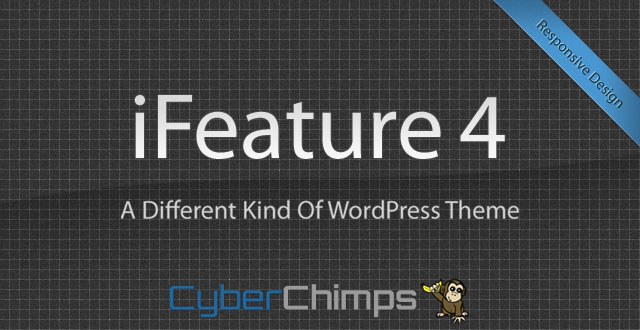
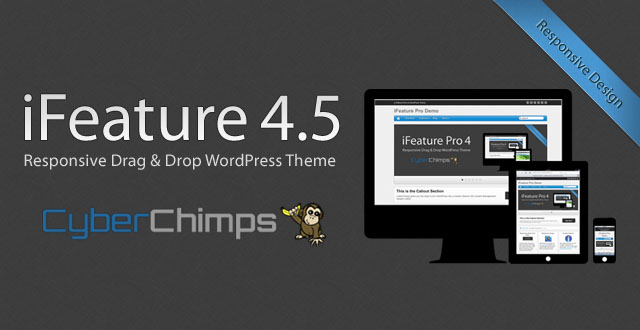
first 4.5 push, product element, slider image

Changed region(s): [[0.0312, 0.2424, 0.9688, 0.8182], [0.25, 0.8485, 0.75, 1.0]]

diff --git a/library/js/theme-options-custom.js b/library/js/theme-options-custom.js
@@ -40,6 +40,29 @@ jQuery(document).ready(function($) {
       post.show(); custom.hide();
     }
   }).change();
+   $("#if_blog_product_link_toggle").change(function() {
+    var toShow = $("#section-if_blog_product_link_url, #section-if_blog_product_link_text");
+    if($(this).is(':checked')) {
+      toShow.show();
+    } else {
+      toShow.hide();
+    }
+  }).change();
+   $("#section-if_blog_product_type").change(function() {
+    if($(this).find(":selected").val() == 'key1') {
+      $('#section-if_blog_product_image').fadeIn();
+    } else {
+      $('#section-if_blog_product_image').hide();
+    }
+  }).change();
+     $("#section-if_blog_product_type").change(function() {
+    if($(this).find(":selected").val() == 'key2') {
+      $('#section-if_blog_product_video').fadeIn();
+    } else {
+      $('#section-if_blog_product_video').hide();
+    }
+  }).change();
+
 
   $.each(['twitter', 'facebook', 'gplus', 'flickr', 'linkedin', 'pinterest', 'youtube', 'googlemaps', 'email', 'rsslink'], function(i, val) {
 	  $("#section-if_" + val).each(function(){
@@ -106,8 +129,8 @@ jQuery(function($) {
 		var show = $(this).val().split(",");
 		var map = {
 			synapse_blog_slider: "subsection-blogslider",
-			synapse_twitterbar_section: "subsection-twtterbaroptions"
-			// , synapse_box_section: ""
+			synapse_twitterbar_section: "subsection-twtterbaroptions",
+			synapse_product_element: "subsection-productoptions"
 		};
 
 		$.each(map, function(key, value) {

diff --git a/css/elements.css b/css/elements.css
@@ -50,3 +50,37 @@ div.timer {display: none;}
 	padding: 10px 15px 10px 15px;
 	font-size: 14px;
 }
+
+/*============================*/
+/*====== Product Element =====*/
+/*============================*/
+
+#product_container {
+	border: 1px solid #ccc;
+	margin-top: 10px;
+	margin-bottom: 10px;
+	border-radius: 4px;
+	-moz-border-radius: 4px;
+	box-shadow:none;
+	background: #ffffff;
+	background: -moz-linear-gradient(top,  #ffffff 0%, #f9f9f9 75%, #f4f4f4 100%);
+	background: -webkit-gradient(linear, left top, left bottom, color-stop(0%,#ffffff), color-stop(75%,#f9f9f9), color-stop(100%,#f4f4f4));
+	background: -webkit-linear-gradient(top,  #ffffff 0%,#f9f9f9 75%,#f4f4f4 100%);
+	background: -o-linear-gradient(top,  #ffffff 0%,#f9f9f9 75%,#f4f4f4 100%);
+	background: -ms-linear-gradient(top,  #ffffff 0%,#f9f9f9 75%,#f4f4f4 100%);
+	background: linear-gradient(top,  #ffffff 0%,#f9f9f9 75%,#f4f4f4 100%);
+	filter: progid:DXImageTransform.Microsoft.gradient( startColorstr='#ffffff', endColorstr='#f4f4f4',GradientType=0 );
+}
+
+#productwrap {
+	padding: 20px;
+}
+
+#product_text {color: #222; padding: 0px 0 20px 0;}
+.product_text_wrap {}
+#product_text.six.columns {margin-left: 1%;}
+#product_media.six.columns {margin-left: 0%;}
+.product_text_title {font-size: 24px;color: #000;font-weight:bold;}
+.product_text_text {font-size: 14px;}
+
+#product_media {padding: 0px 0 20px 0;}

diff --git a/style.css b/style.css
@@ -4,7 +4,7 @@ Theme URI: http://cyberchimps.com/ifeature/
 Description: iFeature Pro 4 is a Responsive Drag & Drop Professional WordPress Theme by CyberChimps.com. It includes a Responsive Apple-like design (which magically adjusts to mobile devices such as the iPhone and iPad), Responsive iFeature Slider, New Drag & Drop Header Elements, Page and Blog Elements, intuitive Theme Options, and is built with HTML5 and CSS3. iFeature 4 also includes custom logo support, social icons, a widgetized sidebar and footer, and custom typography options.
 Author: CyberChimps WordPress Themes
 Author URI: http://cyberchimps.com
-Version: 4.1.6
+Version: 4.5
 Tags: white, light, silver, gray, green, two-columns, flexible-width, fixed-width, custom-header, custom-menu, threaded-comments, sticky-post, custom-background, custom-colors, featured-images, full-width-template, post-formats, right-sidebar, translation-ready, theme-options
 License: GNU General Public License v2.0
 License URI: http://www.gnu.org/licenses/gpl-2.0.html

diff --git a/core/library/js/metabox-tabs.js b/core/library/js/metabox-tabs.js
@@ -48,6 +48,7 @@ jQuery(document).ready(function($) {
 		page_slider: "subsection-iFeature-Pro-Slider-Options",
 		callout_section: "subsection-Callout-Options",
 		carousel_section: "subsection-Carousel-Options",
+		product_element: "subsection-Product-Options",
 		twitterbar_section: "subsection-Twitter-Options"
 	};
 	$("#page_section_order").change(function(){
@@ -125,6 +126,14 @@ jQuery(document).ready(function($) {
 
     $('#checkbox-disable_callout_button').change(function(){
 	    var items = $("tr.callout_button_text, tr.callout_url");
+		if($(this).is(':checked')) {
+			items.show();
+		} else {
+			items.hide();
+		}
+    }).trigger('change');
+         $('#checkbox-product_link_toggle').change(function(){
+	    var items = $("tr.product_link_url, tr.product_link_text");
 		if($(this).is(':checked')) {
 			items.show();
 		} else {

diff --git a/core/library/js/jquery-custom.js b/core/library/js/jquery-custom.js
@@ -41,3 +41,25 @@ jQuery(document).ready(function($) {
 		if_check_slider_value();
 	});
 });
+
+jQuery(document).ready(function($) {
+	function if_check_product_value(value) {
+		var product_value = $("select[name=\'product_type\']").val();
+
+		if ( product_value == "0" ) {
+			$(".product_video").hide();
+			$(".product_image").fadeIn();
+		} else if ( product_value == "1" ){
+			$(".product_image").hide();
+			$(".product_video").fadeIn();
+		}
+
+		return false;
+	}
+
+	if_check_product_value();
+
+	$("select[name=\'product_type\']").change(function() {
+		if_check_product_value();
+	});
+});

diff --git a/core/actions/product-actions.php b/core/actions/product-actions.php
@@ -1,0 +1,101 @@
+<?php
+/**
+* Product element actions used by iFeature
+*
+* Author: Tyler Cunningham
+* Copyright: © 2012
+* {@link http://cyberchimps.com/ CyberChimps LLC}
+*
+* Released under the terms of the GNU General Public License.
+* You should have received a copy of the GNU General Public License,
+* along with this software. In the main directory, see: /licensing/
+* If not, see: {@link http://www.gnu.org/licenses/}.
+*
+* @package iFeature Pro
+* @since 5.0
+*/
+
+add_action( 'synapse_product_element', 'synapse_product_element_content' );
+
+function synapse_product_element_content(){
+	global $options, $themeslug, $root, $post;
+	
+	if (is_page()) {
+		$title = get_post_meta($post->ID, 'product_title' , true);
+		$text  = get_post_meta($post->ID, 'product_text' , true);
+		$type  = get_post_meta($post->ID, 'product_type' , true);
+		$image = get_post_meta($post->ID, 'product_image' , true);
+		$video = get_post_meta($post->ID, 'product_video' , true);	
+		$align = get_post_meta($post->ID, 'product_text_align' , true);
+		$link_enable  = get_post_meta($post->ID, 'product_link_toggle' , true);
+		$link  = get_post_meta($post->ID, 'product_link_url' , true);
+		$link_text  = get_post_meta($post->ID, 'product_link_text' , true);
+	}
+	else {
+		$text  = $options->get($themeslug.'_blog_product_text');
+		$title = $options->get($themeslug.'_blog_product_title');
+		$type = $options->get($themeslug.'_blog_product_type');
+		$imgsource = $options->get($themeslug.'_blog_product_image');
+		$image = $imgsource['url'];
+		$video = $options->get($themeslug.'_blog_product_video');
+		$align = $options->get($themeslug.'_blog_product_text_align');
+		$link_enable = $options->get($themeslug.'_blog_proudct_link_toggle');
+		$link = $options->get($themeslug.'_blog_product_link_url');
+		$link_text = $options->get($themeslug.'_blog_product_link_text');
+	}
+	
+	if ($link_enable == "on" or $link_enable == "1" OR $link_enable == '') {
+		$button = "<a href='$link' class='nice medium radius white button'>$link_text</a>";
+	}
+	else {
+		$button = '';
+	}
+	
+	if ($type == "0" OR $type == "key1") {
+		$media = "<img src='$image'>";
+	}
+	else {
+		$media ="<div class='flex-video'>$video</div>";
+	}
+	
+	if ($align == "0" OR $align =="key1") {
+		$output =   "
+					<div id='product_text' class='six columns'>
+						<span class='product_text_title'>$title</span> <br /> <span class='product_text_text'>$text </span><br /><br />
+							$button
+					</div>
+					<div id='product_media' class='six columns'>
+						$media
+					</div>
+				    "; 
+	}
+	if ($align == "1" OR $align =="key2"){
+		$output =   "
+					<div id='product_media' class='six columns'>
+						$media
+					</div>
+					<div id='product_text' class='six columns'>
+						<span class='product_text_title'>$title</span> <br /> <span class='product_text_text'>$text </span><br /><br />
+							$button
+
+					</div>
+				    "; 
+	}
+?>
+
+		<div class="row">
+			<div id="product_container" class="twelve columns">
+				<div id="productwrap">
+				<?php echo $output; ?>
+				</div>			
+			</div>
+		</div>
+
+<?php
+}
+
+/**
+* End
+*/
+
+?>

diff --git a/includes/classy-options-init.php b/includes/classy-options-init.php
@@ -129,7 +129,7 @@ TEMPLATE_URL . '/images/social/thumbs/icons-default.png' ), 'default' => 'defaul
 		->subsection_end()
 	->section("Blog")
 		->open_outersection()
-			->section_order($themeslug."_blog_section_order", "Drag & Drop Blog Elements", array('options' => array("synapse_index" => "Post Page", "synapse_blog_slider" => "iFeature Slider", "synapse_twitterbar_section" => "Twitter Bar"), "default" => 'synapse_blog_slider,synapse_index'))
+			->section_order($themeslug."_blog_section_order", "Drag & Drop Blog Elements", array('options' => array("synapse_index" => "Post Page", "synapse_blog_slider" => "iFeature Slider", "synapse_twitterbar_section" => "Twitter Bar", "synapse_product_element" => "Product"), "default" => 'synapse_blog_slider,synapse_index'))
 		->close_outersection()
 		->subsection("Blog Options")
 			->checkbox($themeslug."_post_formats", "Post Format Icons",  array('default' => true))
@@ -153,6 +153,17 @@ TEMPLATE_URL . '/images/social/thumbs/icons-default.png' ), 'default' => 'defaul
 		->subsection("Twtterbar Options")
 			->text($themeslug."_blog_twitter", "Enter your Twitter handle")
 			->checkbox($themeslug."_blog_twitter_reply", "Show @ Replies")
+		->subsection_end()
+		->subsection("Product Options")
+			->select($themeslug."_blog_product_text_align", "Product Layout", array( 'options' => array("key1" => "Text Left - Image Right", "key2" => "Text Right - Image Left")))
+			->text($themeslug."_blog_product_title", "Product Title", array('default' =>'Product'))
+			->textarea($themeslug."_blog_product_text", "Product Text", array('default' => 'Lorem ipsum dolor sit amet, consectetur adipisicing elit, sed do eiusmod tempor incididunt ut labore et dolore magna aliqua. Ut enim ad minim veniam, quis nostrud exercitation ullamco laboris nisi ut aliquip ex ea commodo consequat. Duis aute irure dolor in reprehenderit in voluptate velit esse cillum dolore eu fugiat nulla pariatur. Excepteur sint occaecat cupidatat non proident, sunt in culpa qui officia deserunt mollit anim id est laborum. '))
+			->select($themeslug."_blog_product_type", "Media Type", array( 'options' => array("key1" => "Image", "key2" => "Video")))
+			->upload($themeslug."_blog_product_image", "Product Image", array('default' => array('url' => TEMPLATE_URL . '/images/pro/product.jpg')))
+			->textarea($themeslug."_blog_product_video", "Video Embed")
+			->checkbox($themeslug."_blog_product_link_toggle", "Product Link", array('default' => true))
+			->text($themeslug."_blog_product_link_url", "Link", array('default' => home_url()))
+			->text($themeslug."_blog_product_link_text", "Text", array('default' => 'Buy Now'))
 		->subsection_end()
 		->subsection("SEO")
 			->textarea($themeslug."_home_description", "Home Description")

diff --git a/includes/meta-box.php b/includes/meta-box.php
@@ -38,7 +38,8 @@ function initialize_the_meta_boxes() {
 			->section_order('page_section_order', 'Page Elements', '', array('options' => array(
 					'breadcrumbs' => 'Breadcrumbs',
 					'page_section' => 'Page',
-					'twitterbar_section' => 'Twitter Bar',			
+					'twitterbar_section' => 'Twitter Bar',	
+					'product_element' => 'Product'		
 					),
 					'std' => 'breadcrumbs,page_section'
 				))
@@ -46,6 +47,16 @@ function initialize_the_meta_boxes() {
 		->tab("Twitter Options")
 			->text('twitter_handle', 'Twitter Handle', 'Enter your Twitter handle if using the Twitter bar')
 			->checkbox('twitter_reply', 'Show @ Replies', '')
+		->tab("Product Options")
+			->select('product_text_align', 'Text Align', '', array('options' => array('Left', 'Right')) )
+			->text('product_title', 'Product Title', '', array('std' => 'Product'))
+			->textarea('product_text', 'Proudct Text', '', array('std' => 'Lorem ipsum dolor sit amet, consectetur adipisicing elit, sed do eiusmod tempor incididunt ut labore et dolore magna aliqua. Ut enim ad minim veniam, quis nostrud exercitation ullamco laboris nisi ut aliquip ex ea commodo consequat. Duis aute irure dolor in reprehenderit in voluptate velit esse cillum dolore eu fugiat nulla pariatur. Excepteur sint occaecat cupidatat non proident, sunt in culpa qui officia deserunt mollit anim id est laborum. '))
+			->select('product_type', 'Media Type', '', array('options' => array('Image', 'Video')) )
+			->single_image('product_image', 'Product Image', '', array('std' =>  TEMPLATE_URL . '/images/pro/product.jpg'))
+			->textarea('product_video', 'Video Embed', '')
+			->checkbox('product_link_toggle', 'Product Link', '', array('std' => 'on'))
+			->text('product_link_url', 'Link URL', '', array('std' => home_url()))
+			->text('product_link_text', 'Link Text', '', array('std' => 'Buy Now'))
 		->tab("SEO Options")
 			->text('seo_title', 'SEO Title', '')
 			->textarea('seo_description', 'SEO Description', '')

diff --git a/core/core-hooks.php b/core/core-hooks.php
@@ -501,6 +501,16 @@ function synapse_blog_content_slider() {
 function synapse_page_content_slider() {
 	do_action ('synapse_page_content_slider');
 }
+
+/**
+* Page content slider. 
+*
+* @since 1.0
+*/
+function synapse_product_element() {
+	do_action ('synapse_product_element');
+}
+
 /**
 * End
 */
